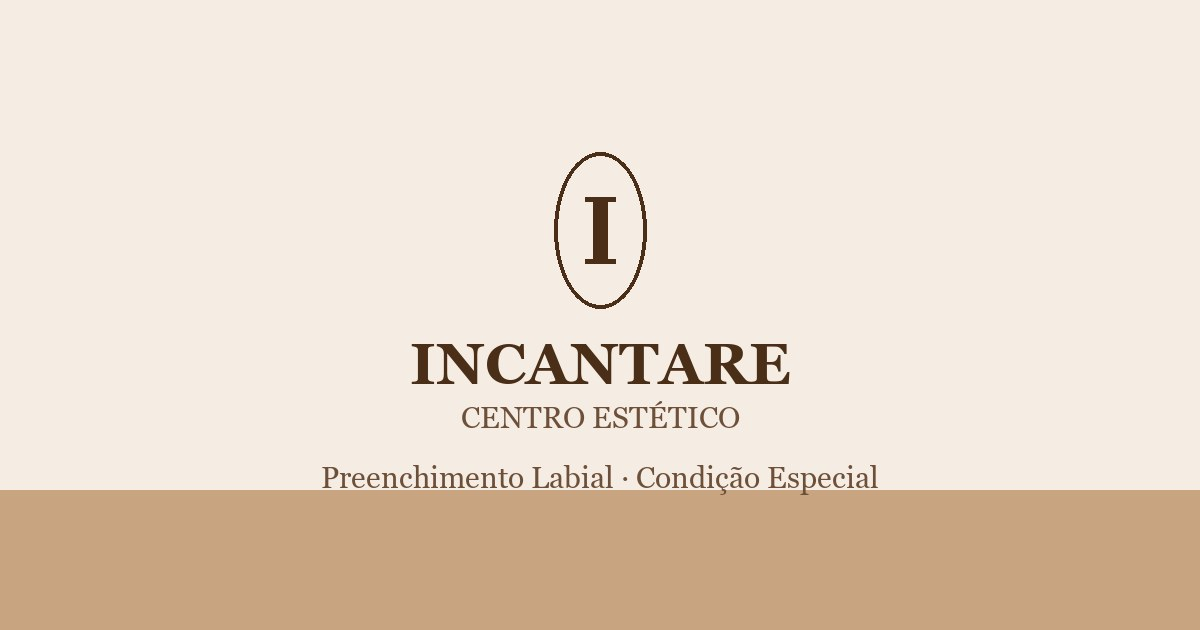
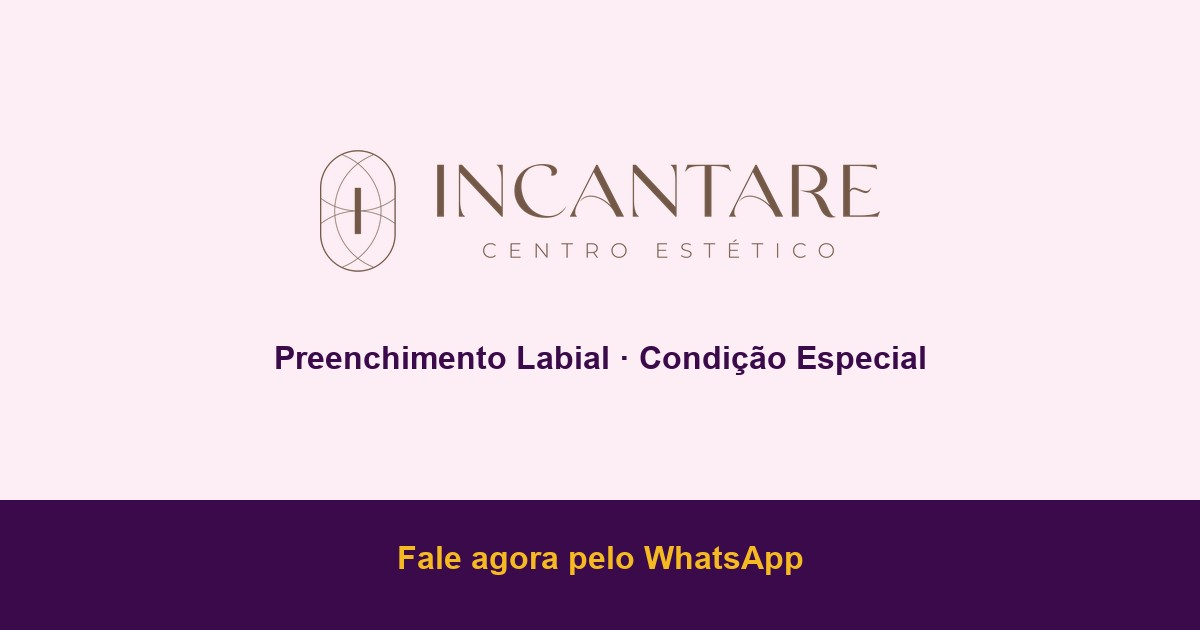
feat: usa o logotipo oficial da Incantare (arquivo real)
Cliente enviou o PNG oficial da logo (assets/logo-incantare-oficial.png,
fonte em alta resolucao) — substitui a reconstrucao em vetor usada
ate aqui:

- topo e rodape agora usam assets/logo-incantare.png (versao otimizada
  900px, ~55KB) em vez do SVG reconstruido
- favicons (favicon-16/32, apple-touch-icon, icon-192/512, favicon.ico)
  recortados a partir do emblema real (nao mais desenhados a mao)
- og-image.jpg regenerada com o logo real
- remove assets/logo-incantare.svg (reconstrucao, sem uso depois da troca)
- remove o link de favicon SVG que apontava pro logo largo (nao quadrado)

diff --git a/index.html b/index.html
@@ -23,7 +23,6 @@
 <meta name="twitter:image" content="/assets/og-image.jpg">
 
 <!-- Ícones -->
-<link rel="icon" type="image/svg+xml" href="assets/logo-incantare.svg">
 <link rel="icon" type="image/png" sizes="32x32" href="assets/favicon-32.png">
 <link rel="icon" type="image/png" sizes="16x16" href="assets/favicon-16.png">
 <link rel="apple-touch-icon" sizes="180x180" href="assets/apple-touch-icon.png">
@@ -102,7 +101,7 @@ height="0" width="0" style="display:none;visibility:hidden"></iframe></noscript>
      TOPO — logo pequena, sem menu
      ============================================================ -->
 <header class="topbar">
-  <img src="assets/logo-incantare.svg" alt="Incantare Centro Estético" class="topbar-logo" width="223" height="44">
+  <img src="assets/logo-incantare.png" alt="Incantare Centro Estético" class="topbar-logo" width="202" height="44">
 </header>
 
 <main>
@@ -305,7 +304,7 @@ height="0" width="0" style="display:none;visibility:hidden"></iframe></noscript>
      ============================================================ -->
 <footer class="site-footer">
   <div class="container">
-    <img src="assets/logo-incantare.svg" alt="Incantare Centro Estético" class="footer-logo" width="182" height="36">
+    <img src="assets/logo-incantare.png" alt="Incantare Centro Estético" class="footer-logo" width="165" height="36">
 
     <p class="footer-disclaimer">
       Resultados e indicação do procedimento dependem de avaliação individual.

diff --git a/README.md b/README.md
@@ -22,7 +22,8 @@ netlify.toml
 robots.txt
 sitemap.xml
 /assets
-  logo-incantare.svg     ← logotipo (ver nota abaixo)
+  logo-incantare.png          ← logotipo oficial, otimizado p/ web (900px)
+  logo-incantare-oficial.png  ← arquivo original enviado pelo cliente (fonte)
   antes-depois-01.webp … antes-depois-05.webp
   og-image.jpg
   favicon-16.png / favicon-32.png / favicon.ico
@@ -32,13 +33,14 @@ sitemap.xml
 
 ### Sobre o logotipo
 
-O arquivo `assets/logo-incantare.svg` é uma **reconstrução em vetor**
-do logotipo enviado (o Claude Code não tem acesso a imagens coladas
-diretamente na conversa como arquivo). Para usar o arquivo oficial:
-
-1. Salve o PNG/SVG original em `assets/logo-incantare.png` (ou `.svg`).
-2. No `index.html`, troque as duas ocorrências de
-   `src="assets/logo-incantare.svg"` pelo novo caminho.
+`assets/logo-incantare.png` é o logotipo **oficial** da Incantare
+(enviado pelo cliente), redimensionado para 900px de largura e
+otimizado para web (~55KB). O arquivo original em alta resolução
+(6616px) fica em `assets/logo-incantare-oficial.png`, mantido só como
+fonte — se precisar reexportar em outro tamanho, reprocesse a partir
+dele. Os favicons (`favicon-*.png`, `apple-touch-icon.png`,
+`icon-192/512.png`) também já foram recortados a partir do emblema
+real (o "I" dentro do oval).
 
 ### Sobre as imagens de antes e depois
 
@@ -46,9 +48,7 @@ As 5 imagens em `/assets/antes-depois-0X.webp` já vieram com a marca
 d'água da Incantare aplicada e foram apenas redimensionadas e
 convertidas para WebP (redução de ~8,8 MB para ~0,28 MB no total,
 mantendo a marca d'água original). Elas são representações geradas
-para fins publicitários — por isso a página exibe o aviso
-"Imagens ilustrativas. Resultados podem variar conforme cada caso."
-abaixo do carrossel.
+para fins publicitários.
 
 Para substituir por fotos reais de pacientes (com autorização), basta
 sobrescrever os arquivos `antes-depois-01.webp` a `antes-depois-05.webp`
